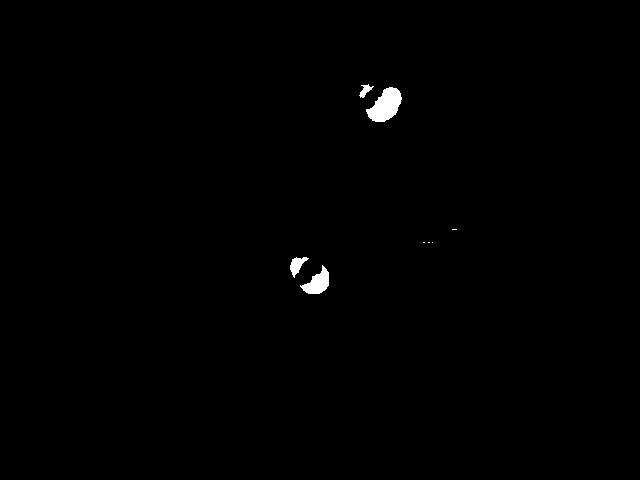
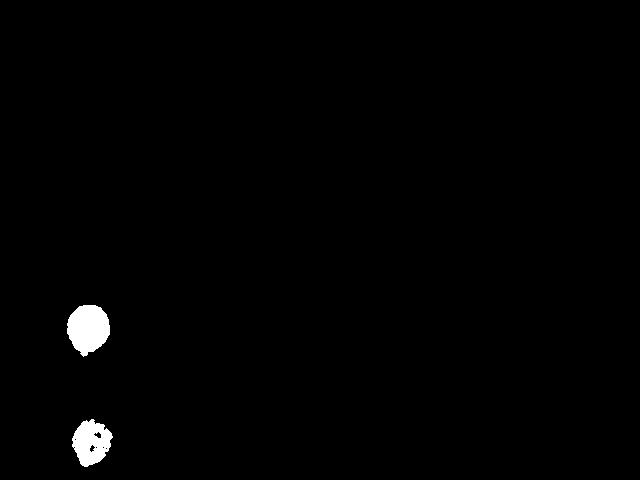
INICIO

diff --git a/src/util/Main.java b/src/util/Main.java
@@ -33,16 +33,17 @@ public class Main {
                 }
             }
             Imagem i = new Imagem(matriz);
-            Imagem imagem = OperacaoMorfologica.erodir(i, ee);
+            Imagem imagem = OperacaoMorfologica.abertura(i, ee);
             matriz = imagem.getImagem();
             BufferedImage image3 = new BufferedImage(image1.getWidth(), image1.getHeight(), image1.getType());
             for (int y = 0; y < image1.getHeight(); y++) {
                 for (int x = 0; x < image1.getWidth(); x++) {
                     int bDiff = matriz[x][y];
-                    if(bDiff >= 20) {
-                        bDiff = 255;
-                    } else {
+                    // LIMIARIZAÇÃO
+                    if(bDiff <= 50) {
                         bDiff = 0;
+                    } else {
+                        bDiff = 255;
                     }
                     int diff = (255 << 24) | (bDiff << 16) | (bDiff << 8) | bDiff;
                     image3.setRGB(x, y, diff);

diff --git a/src/imagem/Regiao.java b/src/imagem/Regiao.java
@@ -21,12 +21,14 @@ public class Regiao {
 
     public static void main(String[] args) {
         try {
-            BufferedImage image1 = ImageIO.read(new File("erosao.jpg"));
+            BufferedImage image1 = ImageIO.read(new File("tabnovo/test-0.jpg"));
             int[][] matriz = new int[image1.getWidth()][image1.getHeight()];
             for (int y = 0; y < image1.getHeight(); y++) {
                 for (int x = 0; x < image1.getWidth(); x++) {
                     matriz[x][y] = image1.getRGB(x, y) & 0xFF;
+                    System.out.print(matriz[x][y] + "\t");
                 }
+                System.out.println("");
             }
             Set<String> set = new HashSet<>();
             for (int y = 0; y < image1.getHeight(); y++) {

diff --git a/src/imagem/Imagem.java b/src/imagem/Imagem.java
@@ -16,8 +16,8 @@ import javax.imageio.ImageIO;
 public class Imagem {
 
     public static void main(String[] args) throws Exception {
-        BufferedImage image1 = ImageIO.read(new File("novapasta/test-0.jpg"));
-        BufferedImage image2 = ImageIO.read(new File("novapasta/test-1.jpg"));
+        BufferedImage image1 = ImageIO.read(new File("tabnovo/test-0.jpg"));
+        BufferedImage image2 = ImageIO.read(new File("tabnovo/test-1.jpg"));
         BufferedImage image3 = new BufferedImage(image1.getWidth(), image1.getHeight(), image1.getType());
         for (int x = 0; x < image1.getWidth(); x++) {
             for (int y = 0; y < image1.getHeight(); y++) {
